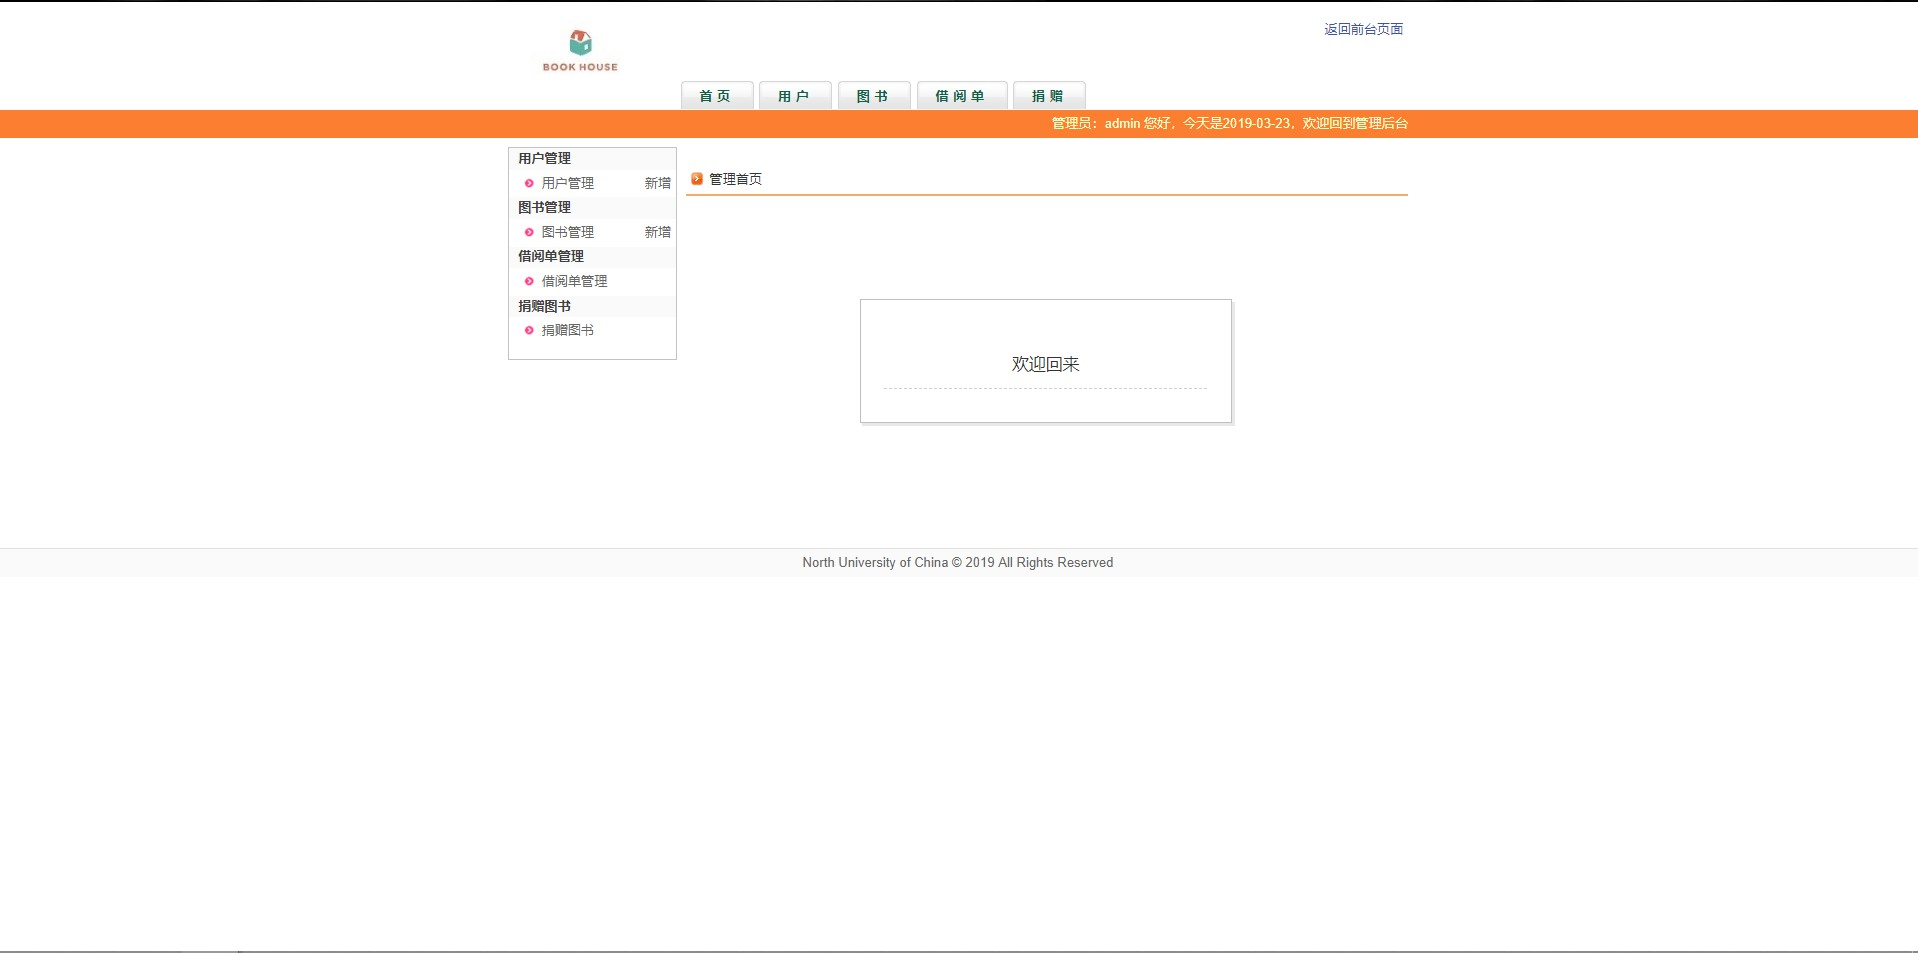
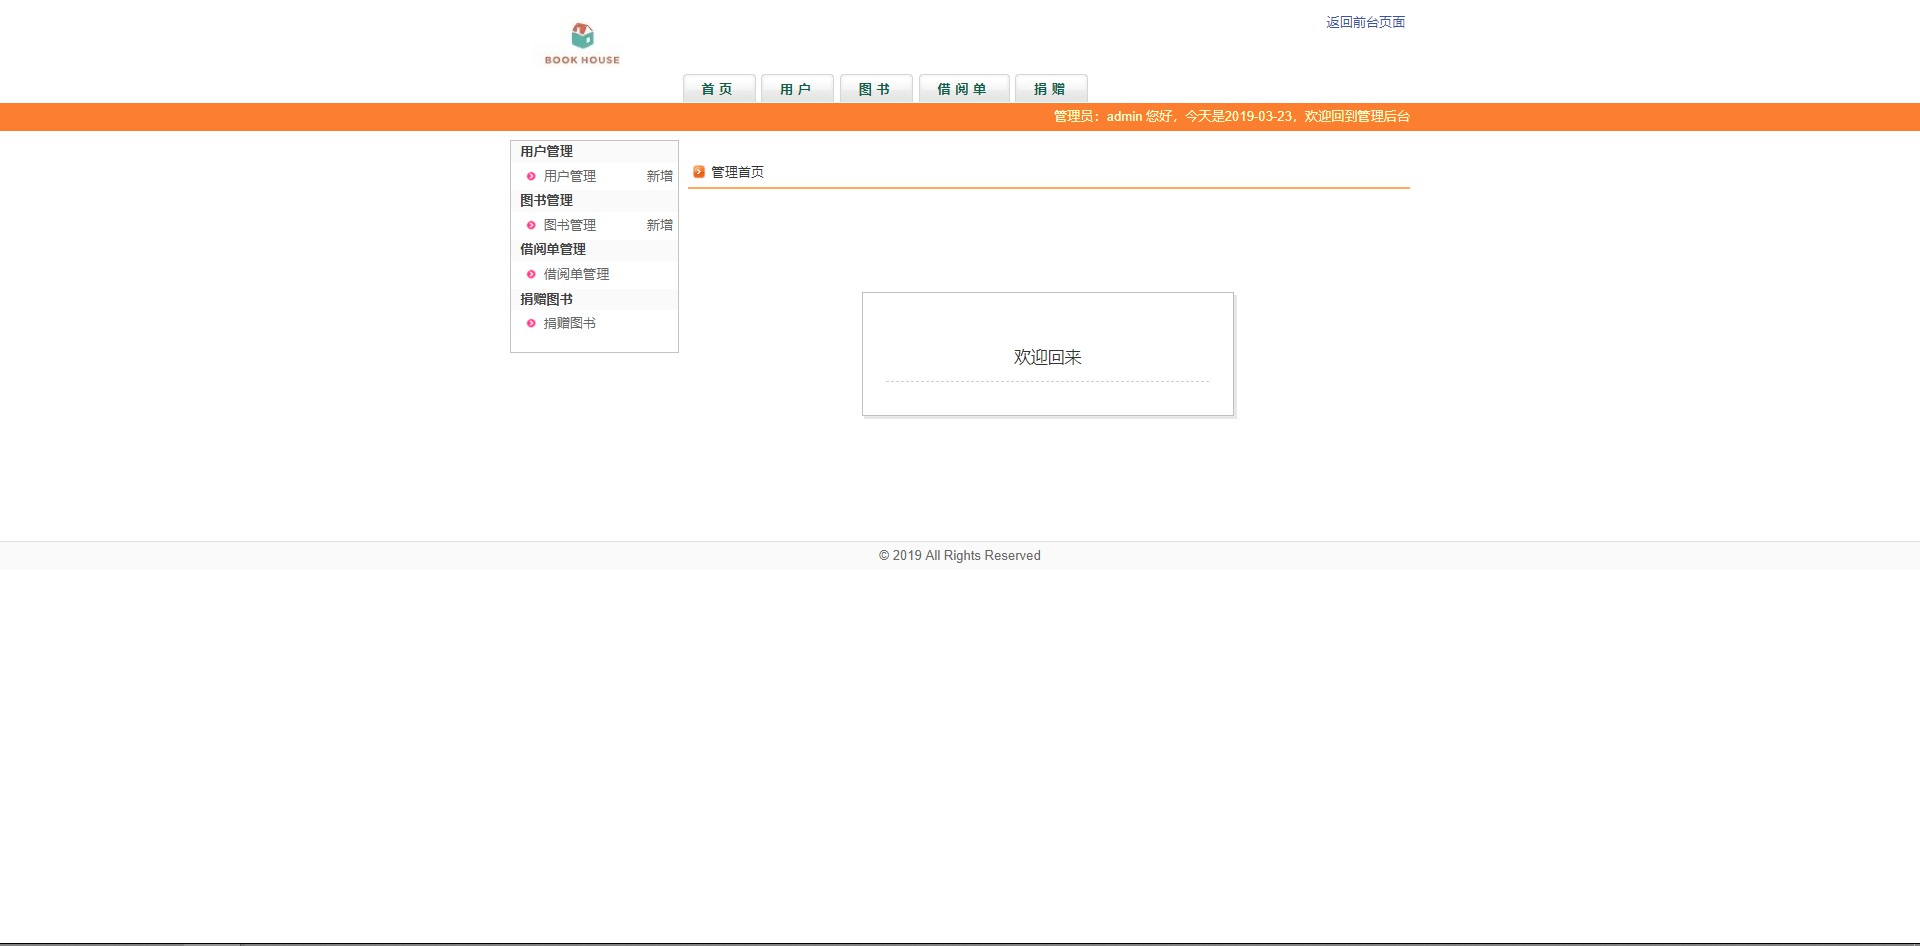
change

diff --git a/bookchange-master/src/main/webapp/WEB-INF/static/footer.html b/bookchange-master/src/main/webapp/WEB-INF/static/footer.html
@@ -1,5 +1,5 @@
 <div id="footer">
-    North University of China &copy; 2019  All Rights Reserved
+    &copy; 2019  All Rights Reserved
 </div>
 <!-- 最新版本的 Bootstrap 核心 CSS 文件 -->
 <link rel="stylesheet" href="https://cdn.bootcss.com/bootstrap/3.3.7/css/bootstrap.min.css" integrity="sha384-BVYiiSIFeK1dGmJRAkycuHAHRg32OmUcww7on3RYdg4Va+PmSTsz/K68vbdEjh4u" crossorigin="anonymous">
